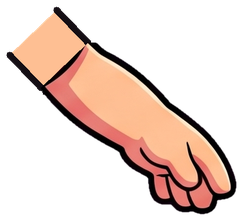
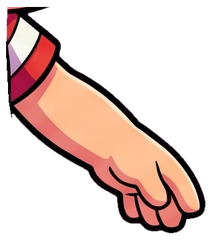
Pizza Rush: Tony arms rigid from the shoulder seam (sleeve included), shorter neck
Claude-Session: https://claude.ai/code/session_0182kiXh1gpsSteoiPFXToWD

diff --git a/Reimei Games/tools/RigLab/atelier/pizza-rush/tony_rig.py b/Reimei Games/tools/RigLab/atelier/pizza-rush/tony_rig.py
@@ -17,7 +17,7 @@ os_ = lambda nom, piv, parent: {'name': nom, 'pivot': piv, 'parent': parent}
 parts = [P['socle'], os_('bassin', cv(1400, 1010), 'socle'),
          {**P['haut'], 'pivot': cv(1400, 860), 'parent': 'bassin'},
          os_('cou', COU, 'haut')]
-for b, piv in [('bras-d', cv(1212, 838)), ('bras-g', cv(1572, 832))]:
+for b, piv in [('bras-d', cv(1282, 792)), ('bras-g', cv(1542, 798))]:
     parts.append({**P[b], 'pivot': piv, 'parent': 'haut'})
 parts.append({**P['tete'], 'pivot': COU, 'parent': 'cou'})
 for v in VARIANTES: parts.append({**P[v], 'pivot': COU, 'parent': 'cou', 'alpha': 0})
@@ -69,8 +69,8 @@ A = 'gain'; anim(A, 1370, 0)
 k(A, 'socle', 0, sx=1, sy=1); k(A, 'socle', 110, S, sx=1.05, sy=0.93); k(A, 'socle', 300, IMP, sx=0.97, sy=1.06)
 k(A, 'socle', 520, S, sx=1, sy=1); k(A, 'socle', 1370, sx=1, sy=1)
 k(A, 'haut', 0, y=0); k(A, 'haut', 110, S, y=6); k(A, 'haut', 300, IN, y=-14); k(A, 'haut', 1100, S, y=-6); k(A, 'haut', 1370, S, y=0)
-k(A, 'bras-d', 0, rot=0); k(A, 'bras-d', 140, S, rot=r(-6)); k(A, 'bras-d', 360, IN, rot=r(48))
-k(A, 'bras-d', 560, S, rot=r(40)); k(A, 'bras-d', 760, S, rot=r(50)); k(A, 'bras-d', 960, S, rot=r(42)); k(A, 'bras-d', 1370, S, rot=0)
+k(A, 'bras-d', 0, rot=0); k(A, 'bras-d', 140, S, rot=r(-6)); k(A, 'bras-d', 360, IN, rot=r(34))
+k(A, 'bras-d', 560, S, rot=r(28)); k(A, 'bras-d', 760, S, rot=r(35)); k(A, 'bras-d', 960, S, rot=r(30)); k(A, 'bras-d', 1370, S, rot=0)
 k(A, 'bras-g', 0, rot=0); k(A, 'bras-g', 180, S, rot=r(4)); k(A, 'bras-g', 400, IN, rot=r(-12)); k(A, 'bras-g', 1370, S, rot=0)
 k(A, 'cou', 0, rot=0); k(A, 'cou', 330, IN, rot=r(-5)); k(A, 'cou', 1000, S, rot=r(-3)); k(A, 'cou', 1370, S, rot=0)
 visage(A, 'tete-rire', 300, 1180)
@@ -84,8 +84,8 @@ k(A, 'socle', 760, OUT, y=0, sx=1, sy=1); k(A, 'socle', 820, IMP, sx=1.08, sy=0.
 k(A, 'socle', 1120, S, sx=1, sy=1); k(A, 'socle', 1700, sx=1, sy=1)
 for b, sgn in [('bras-d', 1), ('bras-g', -1)]:
     d = 40 if b == 'bras-g' else 0
-    k(A, b, 0, rot=0); k(A, b, 120 + d, S, rot=r(-8 * sgn)); k(A, b, 320 + d, IN, rot=r(58 * sgn))
-    k(A, b, 620 + d, S, rot=r(50 * sgn)); k(A, b, 860 + d, IMP, rot=r(60 * sgn)); k(A, b, 1200 + d, S, rot=r(52 * sgn)); k(A, b, 1700, S, rot=0)
+    k(A, b, 0, rot=0); k(A, b, 120 + d, S, rot=r(-8 * sgn)); k(A, b, 320 + d, IN, rot=r(40 * sgn))
+    k(A, b, 620 + d, S, rot=r(34 * sgn)); k(A, b, 860 + d, IMP, rot=r(42 * sgn)); k(A, b, 1200 + d, S, rot=r(36 * sgn)); k(A, b, 1700, S, rot=0)
 k(A, 'casquette', 0, y=0, rot=0); k(A, 'casquette', 300, y=0, rot=0); k(A, 'casquette', 470, GL, y=-26, rot=r(-6))
 k(A, 'casquette', 640, OUT, y=0, rot=r(2)); k(A, 'casquette', 720, IMP, y=4, rot=0); k(A, 'casquette', 880, S, y=0)
 k(A, 'cou', 0, rot=0); k(A, 'cou', 280, IN, rot=r(-6)); k(A, 'cou', 800, IMP, rot=r(3)); k(A, 'cou', 1000, S, rot=0)
@@ -118,8 +118,8 @@ visage(A, 'tete-triste', 150, 1380)
 A = 'bonus'; anim(A, 1500, 0)
 k(A, 'socle', 0, y=0, sx=1, sy=1); k(A, 'socle', 110, S, sx=1.06, sy=0.92); k(A, 'socle', 280, IN, y=-40, sx=0.97, sy=1.05)
 k(A, 'socle', 540, OUT, y=8, sx=1.06, sy=0.92); k(A, 'socle', 640, IMP, y=-5, sx=0.98, sy=1.03); k(A, 'socle', 780, S, y=0, sx=1, sy=1); k(A, 'socle', 1500, sx=1, sy=1)
-k(A, 'bras-g', 0, rot=0); k(A, 'bras-g', 150, S, rot=r(6)); k(A, 'bras-g', 380, IN, rot=r(-55))
-for i, t in enumerate(range(560, 1160, 150)): k(A, 'bras-g', t, S, rot=r(-48 if i % 2 == 0 else -58))
+k(A, 'bras-g', 0, rot=0); k(A, 'bras-g', 150, S, rot=r(6)); k(A, 'bras-g', 380, IN, rot=r(-40))
+for i, t in enumerate(range(560, 1160, 150)): k(A, 'bras-g', t, S, rot=r(-34 if i % 2 == 0 else -42))
 k(A, 'bras-g', 1500, S, rot=0)
 k(A, 'bras-d', 0, rot=0); k(A, 'bras-d', 400, S, rot=r(10)); k(A, 'bras-d', 1500, S, rot=0)
 k(A, 'cou', 0, rot=0); k(A, 'cou', 320, IN, rot=r(6)); k(A, 'cou', 1200, S, rot=r(4)); k(A, 'cou', 1500, S, rot=0)

diff --git a/Reimei Games/tools/RigLab/atelier/pizza-rush/tony_calques.py b/Reimei Games/tools/RigLab/atelier/pizza-rush/tony_calques.py
@@ -28,37 +28,24 @@ info = {'taille': [W, H]}
 
 # ---------------------------------------------------------------- bras
 COUPE_Y_TETE = 722
-BRAS = {  # nom : (polygone du bras nu jusqu'à la main, segment de l'ourlet [extérieur, intérieur], pivot épaule)
-    'bras-d': ([(880, 720), (1150, 720), (1162, 780), (1238, 905), (1215, 935), (1170, 980), (1100, 1200), (880, 1200)],
-               [(1162, 782), (1238, 905)], (1212, 838)),
-    'bras-g': ([(1605, 845), (1920, 845), (1920, 1130), (1640, 1130), (1560, 1000), (1532, 915)],
-               [(1605, 845), (1532, 915)], (1572, 832)),
+BRAS = {  # nom : (polygone = manche + bras + main, coupé sur la couture d'épaule, pivot = haut de la couture)
+    'bras-d': [(880, 800), (1160, 770), (1245, 738), (1300, 738), (1314, 790), (1306, 860), (1288, 912), (1240, 918),
+               (1215, 935), (1170, 980), (1100, 1200), (880, 1200)],
+    'bras-g': [(1528, 760), (1920, 760), (1920, 1130), (1640, 1130), (1560, 1000), (1534, 930), (1530, 905), (1526, 830)],
 }
+PIVOTS = {'bras-d': (1282, 792), 'bras-g': (1542, 798)}
 corps = ref.copy()
 corps[:COUPE_Y_TETE] = 0
-for nom, (pts, ourlet, pivot) in BRAS.items():
+for nom, pts in BRAS.items():
     m = poly(ref.shape, pts)
     bras = np.zeros_like(ref); bras[m] = ref[m]
-    # prolonge le haut du bras sous la manche : une gélule couleur peau, avec contour, derrière l'ourlet
-    (x0, y0), (x1, y1) = ourlet
-    cx, cy = (x0 + x1) / 2, (y0 + y1) / 2
-    dx, dy = x1 - x0, y1 - y0; L = np.hypot(dx, dy); nx, ny = -dy / L, dx / L   # normale à l'ourlet
-    # sens « vers l'intérieur de la manche » = opposé à la main
-    mx, my = np.argwhere(m).mean(0)[::-1]
-    if (mx - cx) * nx + (my - cy) * ny > 0: nx, ny = -nx, -ny
-    peau = ref[m & (ref[..., 3] > 200)][:, :3].astype(int)
-    peau = peau[(peau[:, 0] > 200) & (peau[:, 1] > 140) & (peau[:, 2] > 100)]
-    coul = tuple(int(v) for v in np.median(peau, 0))
-    ext = 70
-    quad = np.array([(x0, y0), (x1, y1), (x1 + nx * ext, y1 + ny * ext), (x0 + nx * ext, y0 + ny * ext)], np.int32)
-    cap = np.zeros((H, W, 4), np.uint8)
-    cv2.fillPoly(cap, [quad], (*coul, 255))
-    cv2.polylines(cap, [quad[[1, 2]], quad[[3, 0]]], False, (20, 14, 20, 255), 10)
-    sous = cap[..., 3] > 0
-    bras[sous & (bras[..., 3] < 128)] = cap[sous & (bras[..., 3] < 128)]
     sauver(nom, bras)
-    corps[m] = 0
-    info[nom] = {'pivot': list(pivot)}
+    # épaule fixe sur le buste : le haut de la manche (près de la couture) reste en place sous le bras qui tourne
+    px, py = PIVOTS[nom]
+    yy0, xx0 = np.mgrid[0:H, 0:W]
+    epaule = m & ((xx0 - px) ** 2 + (yy0 - py) ** 2 < 62 ** 2)
+    corps[m & ~epaule] = 0
+    info[nom] = {'pivot': list(PIVOTS[nom])}
 # le menton de la référence dépasse sous la coupe : on repère son contour noir (première ligne sombre sous la peau),
 # on lisse cette courbe (polynôme) et on retire tout au-dessus + l'épaisseur du trait. La tête fournit son propre menton.
 lumc = corps[..., :3].astype(int).mean(2)
@@ -80,6 +67,11 @@ sauver('corps', corps)
 
 # ---------------------------------------------------------------- tête + casquette + mèches
 tete = garde_plus_grand(lire('tete.png'))
+COU_BAS = 860
+yy1 = np.arange(H)[:, None]
+cx_cou = 1440
+bout = (yy1 > COU_BAS) | ((yy1 > COU_BAS - 40) & ((np.arange(W)[None, :] - cx_cou) ** 2 / 90.0 ** 2 + (yy1 - (COU_BAS - 40)) ** 2 / 40.0 ** 2 > 1) & (yy1 > COU_BAS - 40))
+tete[bout] = 0
 sauver('tete', tete)
 r, g, b, al = [ref[..., i].astype(int) for i in range(4)]
 zone_cas = poly(ref.shape, [(1080, 60), (1600, 60), (1600, 150), (1420, 230), (1300, 330), (1180, 420), (1080, 420)])
